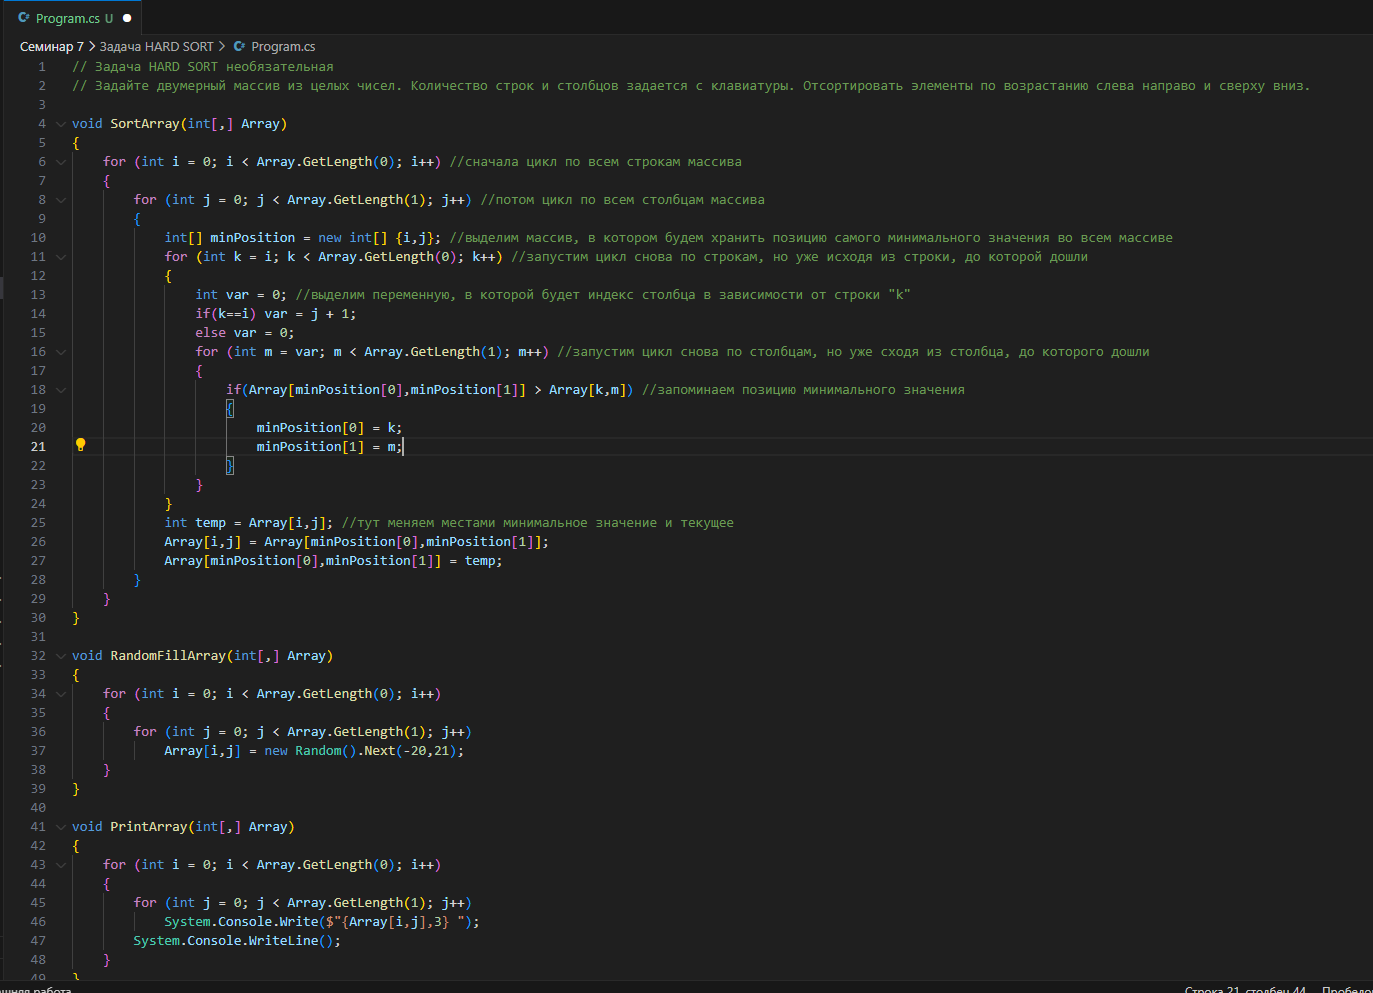
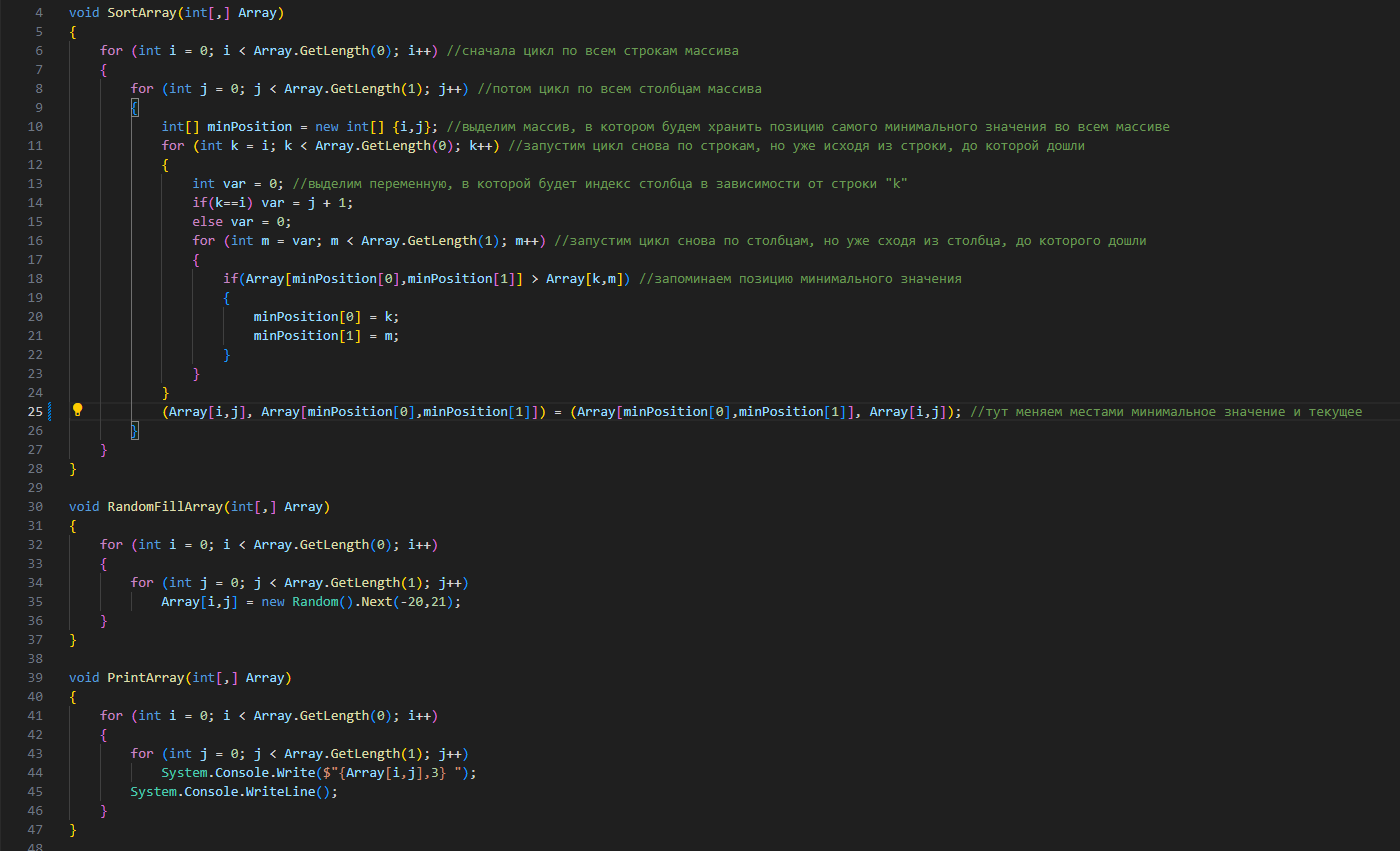
изменил перемещение элементов на множественное присвоение в задаче HARD SORT семинара 7

diff --git a/Семинар 7/Задача HARD SORT/Program.cs b/Семинар 7/Задача HARD SORT/Program.cs
@@ -22,9 +22,7 @@ void SortArray(int[,] Array)
                     }
                 }
             }
-            int temp = Array[i,j]; //тут меняем местами минимальное значение и текущее
-            Array[i,j] = Array[minPosition[0],minPosition[1]];
-            Array[minPosition[0],minPosition[1]] = temp;
+            (Array[i,j], Array[minPosition[0],minPosition[1]]) = (Array[minPosition[0],minPosition[1]], Array[i,j]); //тут меняем местами минимальное значение и текущее
         }
     }
 }
